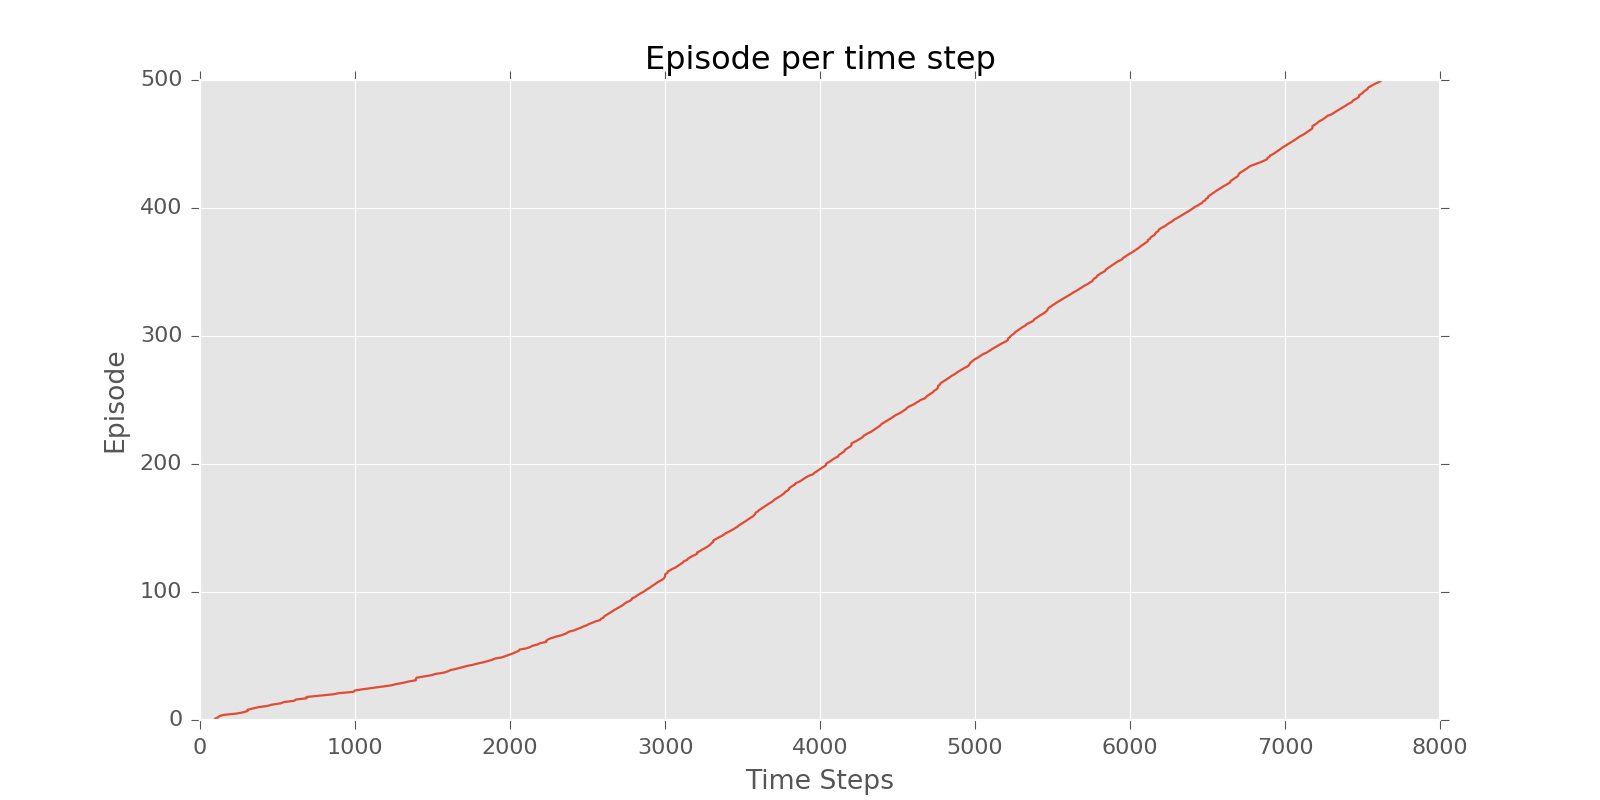
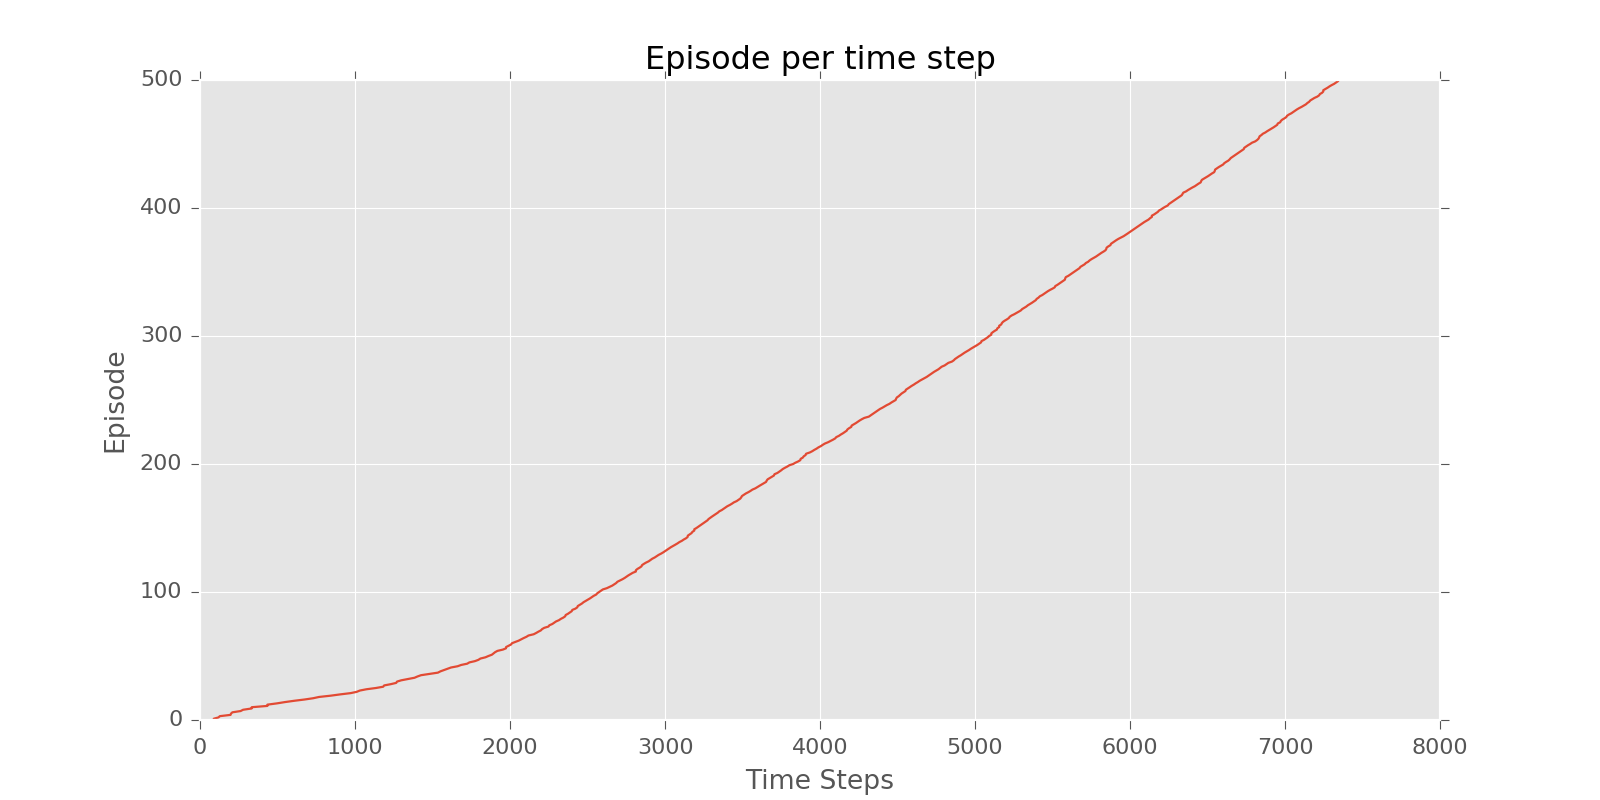
Have G-learning working I THINK but may need tuning. Will email Roy Fox tomorrow

diff --git a/g_learning/G-Learning.py b/g_learning/G-Learning.py
@@ -29,7 +29,7 @@ matplotlib.style.use('ggplot')
 
 class GLearningAgent():
 
-    def __init__(self, env):
+    def __init__(self, env, k):
         """ For now, we'll make a limitation that we know the number of states
         and actions.  It creates:
         
@@ -41,11 +41,11 @@ class GLearningAgent():
         - F: The free energy function.
         - rho: The \rho(a|s) function in the paper, the prior policy (see
             Section 3.1 in the paper). ** Assumes uniform prior!! **
-        - k: The parameter which adjusts the beta term.
 
         Args:
             env: An OpenAI gym environment, either custom or built-in, but be
                 aware that not all of them can be used in this setting.
+            k: The parameter which adjusts the beta term. Should be tested.
         """
         ns, na = env.observation_space.n, env.action_space.n
         self.G = np.zeros((ns,na))
@@ -54,7 +54,7 @@ class GLearningAgent():
         self.I = np.zeros(ns) # not needed
         self.F = np.zeros(ns) # not needed
         self.rho = np.ones((ns,na), dtype=float) / na
-        self.k = 1e-5
+        self.k = k
 
 
     def policy_exploration(self, state, epsilon=0.0):
@@ -70,7 +70,7 @@ class GLearningAgent():
         """
         num_actions = self.G.shape[1]
         action_probs = np.ones(num_actions, dtype=float) * epsilon / num_actions
-        best_action = np.argmax(G[state,:])
+        best_action = np.argmax(self.G[state,:])
         action_probs[best_action] += (1.0-epsilon)
         return np.random.choice(np.arange(num_actions), p=action_probs)
  
@@ -82,11 +82,12 @@ class GLearningAgent():
             t: The iteration of the current episode.
             state: The current state.
             action: The current action.
+
         Returns:
             The alpha to use for the G-learning update.
         """
         alpha = self.N[state,action] ** -0.8
-        assert 0 < alpha < 1, "Error, alpha = {}".format(alpha)
+        assert 0 < alpha <= 1, "Error, alpha = {}".format(alpha)
         return alpha
 
 
@@ -95,30 +96,34 @@ class GLearningAgent():
         
         Args:
             t: The iteration of the current episode.
+
         Returns:
-            The beta to use for the G-learning update
+            The beta to use for the G-learning update. If it's 0, G-learning
+            turns into Q^\rho-learning. If it approaches infinity, G-learning
+            approaches Q-learning.
         """
         beta = self.k * t
-        assert 0 <= beta <= 1, "Error, beta = {}".format(beta)
+        assert beta >= 0, "Error, beta={}, k={}, t={}".format(beta, self.k, t)
         return beta
 
 
-    def g_learning(self, num_episodes, discount=1.0, epsilon=0.1):
+    def g_learning(self, num_episodes, max_ep_steps=10000, discount=1.0, epsilon=0.1):
         """ The G-learning algorithm.
     
         Args:
-            num_episodes:
-            discount:
-            epsilon:
+            num_episodes: Number of episodes to run.
+            max_ep_steps: Maximum time steps allocated to one episode.
+            discount: Standard discount factor, usually denoted as \gamma.
+            epsilon: Probability of taking random actions during exploration.
     
         Returns:
             A tuple (G, stats) of the G-values and statistics, the latter of
             which should be plotted thoroughly analyzed.
         """
-
+        cum_t = 0
         stats = plotting.EpisodeStats(episode_lengths=np.zeros(num_episodes),
                                       episode_rewards=np.zeros(num_episodes))
-    
+
         for i_episode in range(num_episodes):
             if (i_episode+1) % 1 == 0:
                 print("\rEpisode {}/{}.".format(i_episode+1, num_episodes), end="")
@@ -126,7 +131,8 @@ class GLearningAgent():
             state = env.reset()
 
             # Run this episode until we finish as indicated by the environment.
-            for t in itertools.count():
+            for t in range(1, max_ep_steps+1):
+                cum_t += 1
 
                 # Uses exploration policy to take a step, then collect
                 # statistics.  The G-learning paper uses costs, not rewards.               
@@ -135,6 +141,7 @@ class GLearningAgent():
                 cost = -reward 
                 stats.episode_rewards[i_episode] += cost
                 stats.episode_lengths[i_episode] = t
+                self.N[state,action] += 1
 
                 # Intermediate terms for the G-learning update.
                 alpha = self.alpha_schedule(t, state, action)
@@ -159,13 +166,15 @@ if __name__ == "__main__":
     """ This will run G-learning. Be sure to double check all parameters,
     including the ones for plotting (e.g., file names).  """
 
+    # Should test with k in {1e-3, 1e-4, 5*1e-5, 1e-6}
     env = CliffWalkingEnv()
-    agent = GLearningAgent(env)
-    G, stats = agent.g_learning(num_episodes=500
+    agent = GLearningAgent(env, k=1e-3) 
+    G, stats = agent.g_learning(num_episodes=500,
+                                max_ep_steps=10000,
                                 discount=0.95,
                                 epsilon=0.1)
     plotting.plot_episode_stats(stats,
-                                smoothing_window=1,
+                                smoothing_window=10,
                                 noshow=False,
                                 figdir="figures/cliff_",
                                 dosave=True)

diff --git a/lib/envs/cliff_walking.py b/lib/envs/cliff_walking.py
@@ -1,3 +1,8 @@
+"""
+This is adapted from Denny Britz's repository. I will modify as needed to
+replicate existing literature results.
+"""
+
 import numpy as np
 import sys
 from gym.envs.toy_text import discrete
@@ -22,7 +27,15 @@ class CliffWalkingEnv(discrete.DiscreteEnv):
         new_position = np.array(current) + np.array(delta)
         new_position = self._limit_coordinates(new_position).astype(int)
         new_state = np.ravel_multi_index(tuple(new_position), self.shape)
-        reward = -100.0 if self._cliff[tuple(new_position)] else -1.0
+
+        # Newer version of rewards/costs from G-learning paper
+        # reward = -100.0 if self._cliff[tuple(new_position)] else -1.0
+        reward = -1.0
+        if self._cliff[tuple(new_position)]:
+            reward = -100.0
+        elif tuple(new_position) == (3,11):
+            reward = 0.0
+
         is_done = self._cliff[tuple(new_position)] or (tuple(new_position) == (3,11))
         return [(1.0, new_state, reward, is_done)]
 

diff --git a/q_learning/Q-Learning.py b/q_learning/Q-Learning.py
@@ -134,9 +134,12 @@ if __name__ == "__main__":
     the correct figdir!! I don't want to override figures.
     """
     env = CliffWalkingEnv()
-    Q, stats = q_learning(env, 500)
+    Q, stats = q_learning(env, 
+                          num_episodes=500,
+                          discount_factor=0.95,
+                          epsilon=0.1)
     plotting.plot_episode_stats(stats, 
                                 smoothing_window=10,
-                                noshow=True, 
+                                noshow=False, 
                                 figdir="figures/cliff_",
                                 dosave=True)
